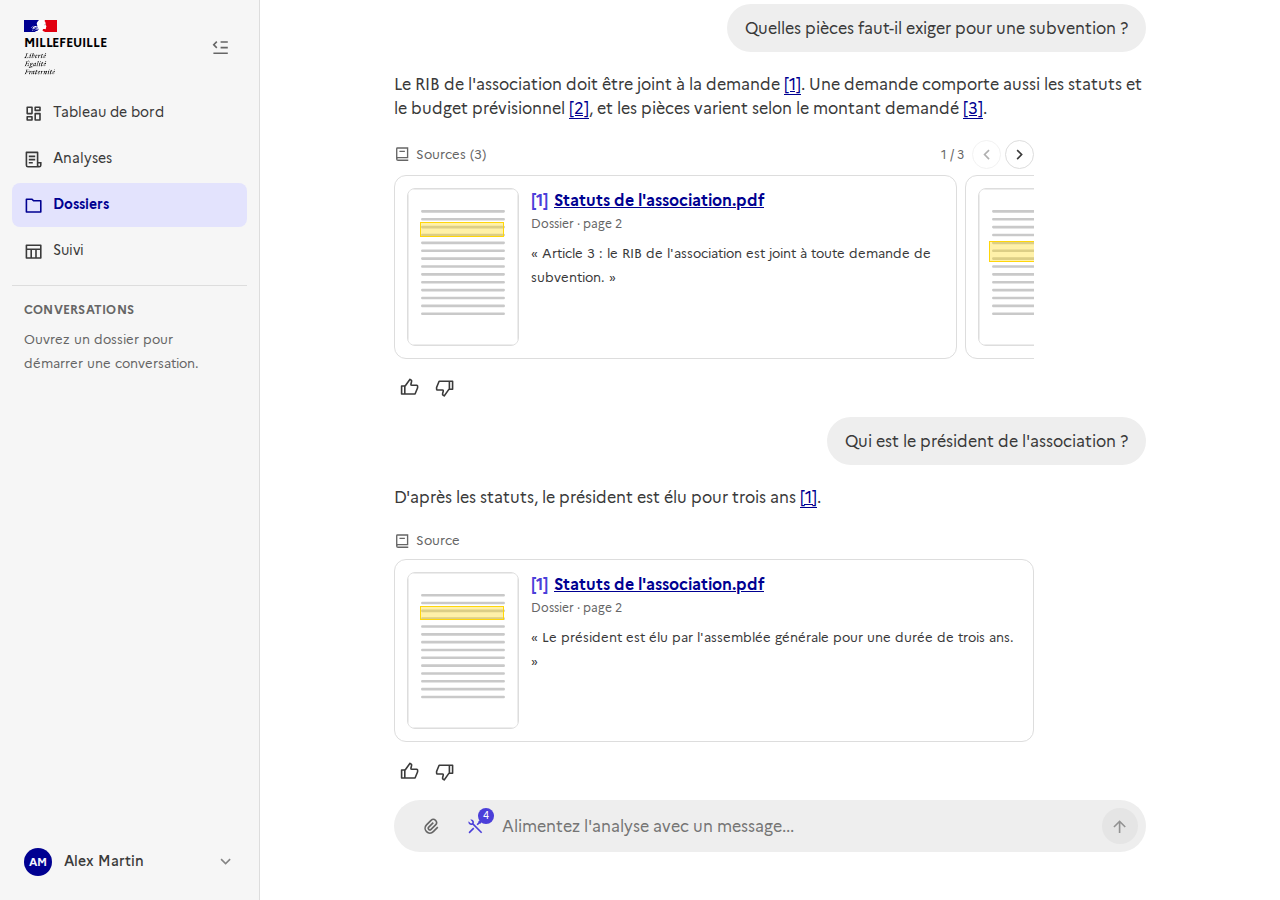
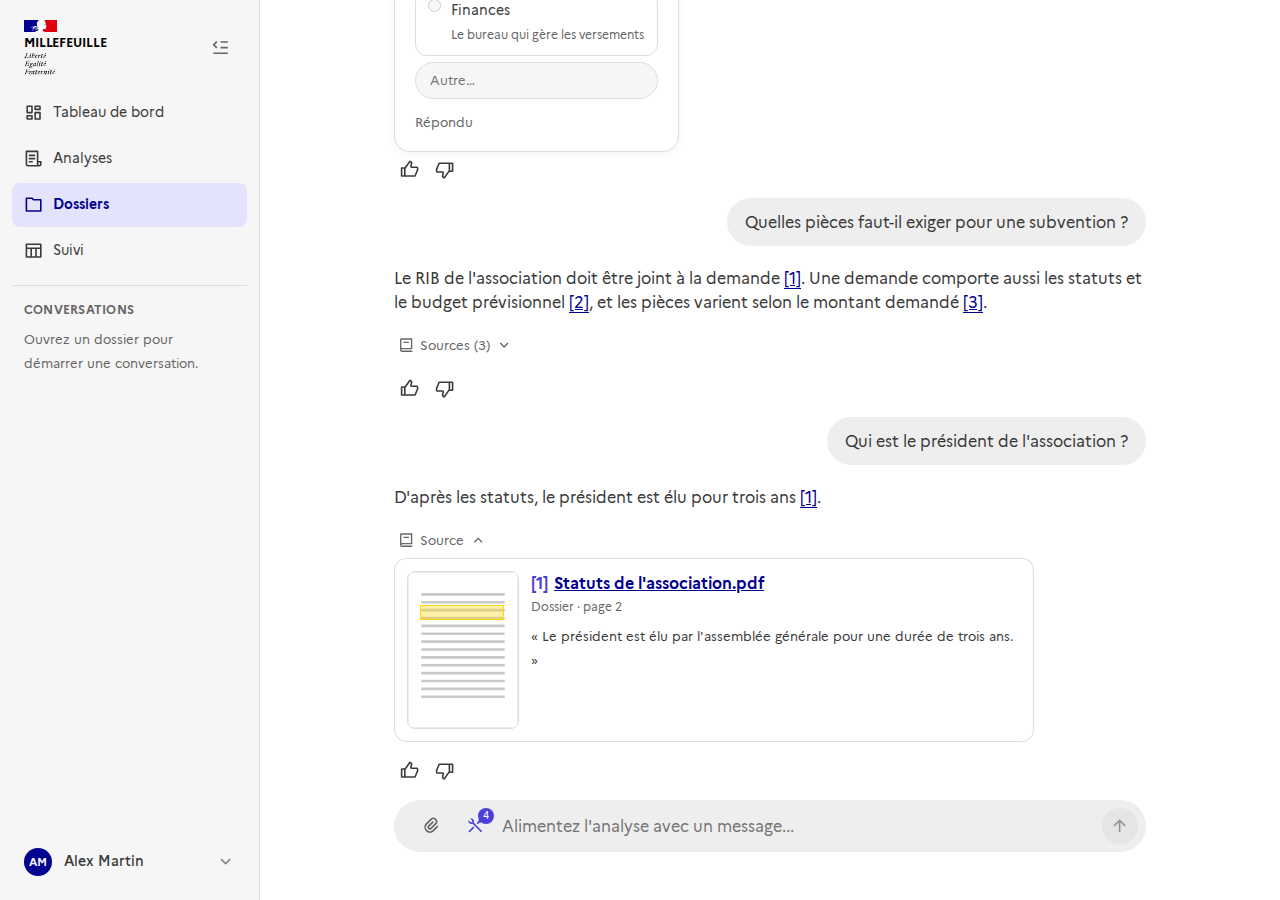
feat(chat): sources repliables, la dernière réponse montre les siennes

diff --git a/frontend/src/components/tools/SourceCarousel.vue b/frontend/src/components/tools/SourceCarousel.vue
@@ -1,5 +1,5 @@
 <script setup lang="ts">
-import { computed, onBeforeUnmount, onMounted, ref } from "vue";
+import { computed, nextTick, onBeforeUnmount, onMounted, ref } from "vue";
 
 import SourceCard from "@/components/tools/SourceCard.vue";
 import type { ChatSource } from "@/types/chatSource";
@@ -7,13 +7,29 @@ import type { ChatSource } from "@/types/chatSource";
 // Les sources d'une réponse : une carte, ou un carrousel quand il y en a plusieurs (défilement au toucher et à la
 // molette, flèches, clavier). Un clic sur un numéro du texte ([2]) envoie `goto-source` à ce bloc, qui se place sur la
 // bonne carte.
-const props = defineProps<{ sources: ChatSource[]; dossierId: string; messageId: string }>();
+const props = defineProps<{
+  sources: ChatSource[];
+  dossierId: string;
+  messageId: string;
+  /** Ouvert d'emblée : la dernière réponse montre ses sources, les plus anciennes sont repliées. */
+  defaultExpanded?: boolean;
+}>();
 const emit = defineEmits<{ open: [source: ChatSource] }>();
 
 const root = ref<HTMLElement>();
 const track = ref<HTMLElement>();
 const current = ref(0);
 const flash = ref(false);
+// Les sources se replient pour ne pas allonger la discussion. Les cartes ne sont montées (et les captures chargées)
+// qu'à la première ouverture ; ensuite on les garde, la position du carrousel ne se perd pas.
+const expanded = ref(props.defaultExpanded ?? false);
+const everExpanded = ref(expanded.value);
+const bodyId = computed(() => `sources-body-${props.messageId}`);
+
+function setExpanded(value: boolean) {
+  expanded.value = value;
+  if (value) everExpanded.value = true;
+}
 
 const many = computed(() => props.sources.length > 1);
 const prefersReducedMotion = () => window.matchMedia?.("(prefers-reduced-motion: reduce)").matches ?? false;
@@ -41,10 +57,13 @@ function onScroll() {
   });
 }
 
-function onGoto(event: Event) {
+async function onGoto(event: Event) {
   const number = (event as CustomEvent<number>).detail;
   const index = props.sources.findIndex((source) => source.number === number);
   if (index === -1) return;
+  // Un numéro cliqué dans le texte ouvre les sources s'il le faut, puis place le carrousel sur sa carte.
+  setExpanded(true);
+  await nextTick();
   root.value?.scrollIntoView({ block: "nearest", behavior: prefersReducedMotion() ? "auto" : "smooth" });
   goTo(index);
   flash.value = true;
@@ -52,7 +71,7 @@ function onGoto(event: Event) {
 }
 
 function onKeydown(event: KeyboardEvent) {
-  if (!many.value || (event.target as HTMLElement).closest("input, textarea")) return;
+  if (!many.value || !expanded.value || (event.target as HTMLElement).closest("input, textarea")) return;
   if (event.key === "ArrowRight") goTo(current.value + 1);
   else if (event.key === "ArrowLeft") goTo(current.value - 1);
   else return;
@@ -78,8 +97,18 @@ onBeforeUnmount(() => {
     @keydown="onKeydown"
   >
     <header class="source-carousel__header">
-      <span class="source-carousel__title"><VIcon name="ri-book-2-line" scale="0.85" /> {{ many ? `Sources (${sources.length})` : "Source" }}</span>
-      <div v-if="many" class="source-carousel__nav">
+      <button
+        type="button"
+        class="source-carousel__toggle"
+        :aria-expanded="expanded"
+        :aria-controls="bodyId"
+        @click="setExpanded(!expanded)"
+      >
+        <VIcon name="ri-book-2-line" scale="0.85" />
+        {{ many ? `Sources (${sources.length})` : "Source" }}
+        <VIcon :name="expanded ? 'ri-arrow-up-s-line' : 'ri-arrow-down-s-line'" scale="0.85" />
+      </button>
+      <div v-if="many && expanded" class="source-carousel__nav">
         <span class="source-carousel__count" aria-live="polite">{{ current + 1 }} / {{ sources.length }}</span>
         <button type="button" class="source-carousel__button" aria-label="Source précédente" :disabled="current === 0" @click="goTo(current - 1)">
           <VIcon name="ri-arrow-left-s-line" />
@@ -95,7 +124,15 @@ onBeforeUnmount(() => {
         </button>
       </div>
     </header>
-    <ul ref="track" class="source-carousel__track" :class="{ 'source-carousel__track--many': many }" @scroll.passive="onScroll">
+    <ul
+      v-if="everExpanded"
+      v-show="expanded"
+      :id="bodyId"
+      ref="track"
+      class="source-carousel__track"
+      :class="{ 'source-carousel__track--many': many }"
+      @scroll.passive="onScroll"
+    >
       <li
         v-for="(source, index) in sources"
         :key="source.key"
@@ -130,12 +167,26 @@ onBeforeUnmount(() => {
   margin-bottom: 0.375rem;
 }
 
-.source-carousel__title {
+.source-carousel__toggle {
   display: inline-flex;
   align-items: center;
   gap: 0.375rem;
+  padding: 0.125rem 0.25rem;
+  border: 0;
+  border-radius: 0.375rem;
+  background: none;
   font-size: 0.8125rem;
   color: var(--text-mention-grey);
+  cursor: pointer;
+}
+
+.source-carousel__toggle:hover {
+  background: var(--background-alt-grey);
+}
+
+.source-carousel__toggle:focus-visible {
+  outline: 2px solid #6a5cff;
+  outline-offset: 2px;
 }
 
 .source-carousel__nav {

diff --git a/frontend/src/pages/DossierDetailPage.vue b/frontend/src/pages/DossierDetailPage.vue
@@ -546,6 +546,7 @@ async function onDeleteConversation() {
           :sources="chatSourcesOf(message, documentName)"
           :dossier-id="dossierId"
           :message-id="message.id"
+          :default-expanded="message.id === messages[messages.length - 1]?.id"
           @open="(source) => source.dossier && openSource(source.dossier.source)"
         />
       </template>

diff --git a/docs/backend/sources-de-connaissances.md b/docs/backend/sources-de-connaissances.md
@@ -95,5 +95,6 @@ Les sources d'une réponse du chat du dossier ont **la même carte**, qu'elles v
 
 - **Une seule suite de numéros.** Le worker numérote chaque source au moment où l'outil la renvoie au modèle (`source_numbering.py`) : les pages du dossier (`search_documents`, `read_page`) et les passages de la base externe partagent la même suite, et un même passage trouvé deux fois garde son numéro. Le prompt demande de citer par ce numéro (`[2]`) et de ne jamais en inventer. Le numéro est enregistré sur chaque source (`message_sources.number`, `message_external_sources.number`, migration `e8f9a0b1c2d3`) ; les messages d'avant n'en ont pas, leurs sources prennent la suite à l'affichage.
 - **Carrousel** dès qu'il y a plusieurs sources : une carte à la fois (on entrevoit la suivante), défilement au toucher et à la molette, flèches, indicateur « 2 / 5 », clavier (flèches gauche et droite), `role="region"` et `aria-roledescription="carousel"`, `prefers-reduced-motion` respecté. Une seule source : une carte, sans commande.
-- **Un clic sur `[n]` dans le texte** place le carrousel sur la carte `n` (événement DOM `goto-source` envoyé au bloc `sources-{message}`) ; un `[n]` qui ne correspond à aucune source reste du texte.
+- **Repliable** : un bouton « Sources (3) » (`aria-expanded`) replie ou déplie le bloc. La dernière réponse montre ses sources, les plus anciennes sont repliées. Les cartes ne sont montées, et les captures chargées, qu'à la première ouverture.
+- **Un clic sur `[n]` dans le texte** ouvre les sources si elles sont repliées et place le carrousel sur la carte `n` (événement DOM `goto-source` envoyé au bloc `sources-{message}`) ; un `[n]` qui ne correspond à aucune source reste du texte.
 

diff --git a/docs/frontend/tools/README.md b/docs/frontend/tools/README.md
@@ -14,7 +14,7 @@
 | **Questions à choix de l'assistant** : onglets, choix unique ou multiple, « Autre », une validation | **réel** (#353) | `chat-question*.png` |
 | **Sources de connaissances** dans « Mes outils » : liste, recherche, ajout avec vérification de la connexion, revérifier, supprimer | **réel** (#356, #360) | `page-outils.png`, `ajout-source*.png` |
 | **Collections de la base de connaissances d'une analyse** : état propre à la personne (indisponible signalé, à retirer), choix par source avec recherche et pagination chez le fournisseur, aperçu et lien, historique et restauration | **réel** (#358, #360) | `collections-*.png`, `selecteur-agent.png` |
-| **Sources d'une réponse** : une même carte pour une page du dossier et pour une base de connaissances externe (titre, page, passage, aperçu avec zones surlignées), numérotées sur une seule suite ([1], [2]…), en carrousel quand il y en a plusieurs ; un clic sur un numéro du texte place le carrousel sur sa carte | **réel** (#369, #360, #372) | `chat-sources-*.png`, `chat-source-unique.png` |
+| **Sources d'une réponse** : une même carte pour une page du dossier et pour une base de connaissances externe (titre, page, passage, aperçu avec zones surlignées), numérotées sur une seule suite ([1], [2]…), en carrousel quand il y en a plusieurs, repliables (la dernière réponse montre les siennes) ; un clic sur un numéro du texte place le carrousel sur sa carte | **réel** (#369, #360, #372) | `chat-sources-*.png`, `chat-source-unique.png` |
 
 ## Régénérer les captures
 
